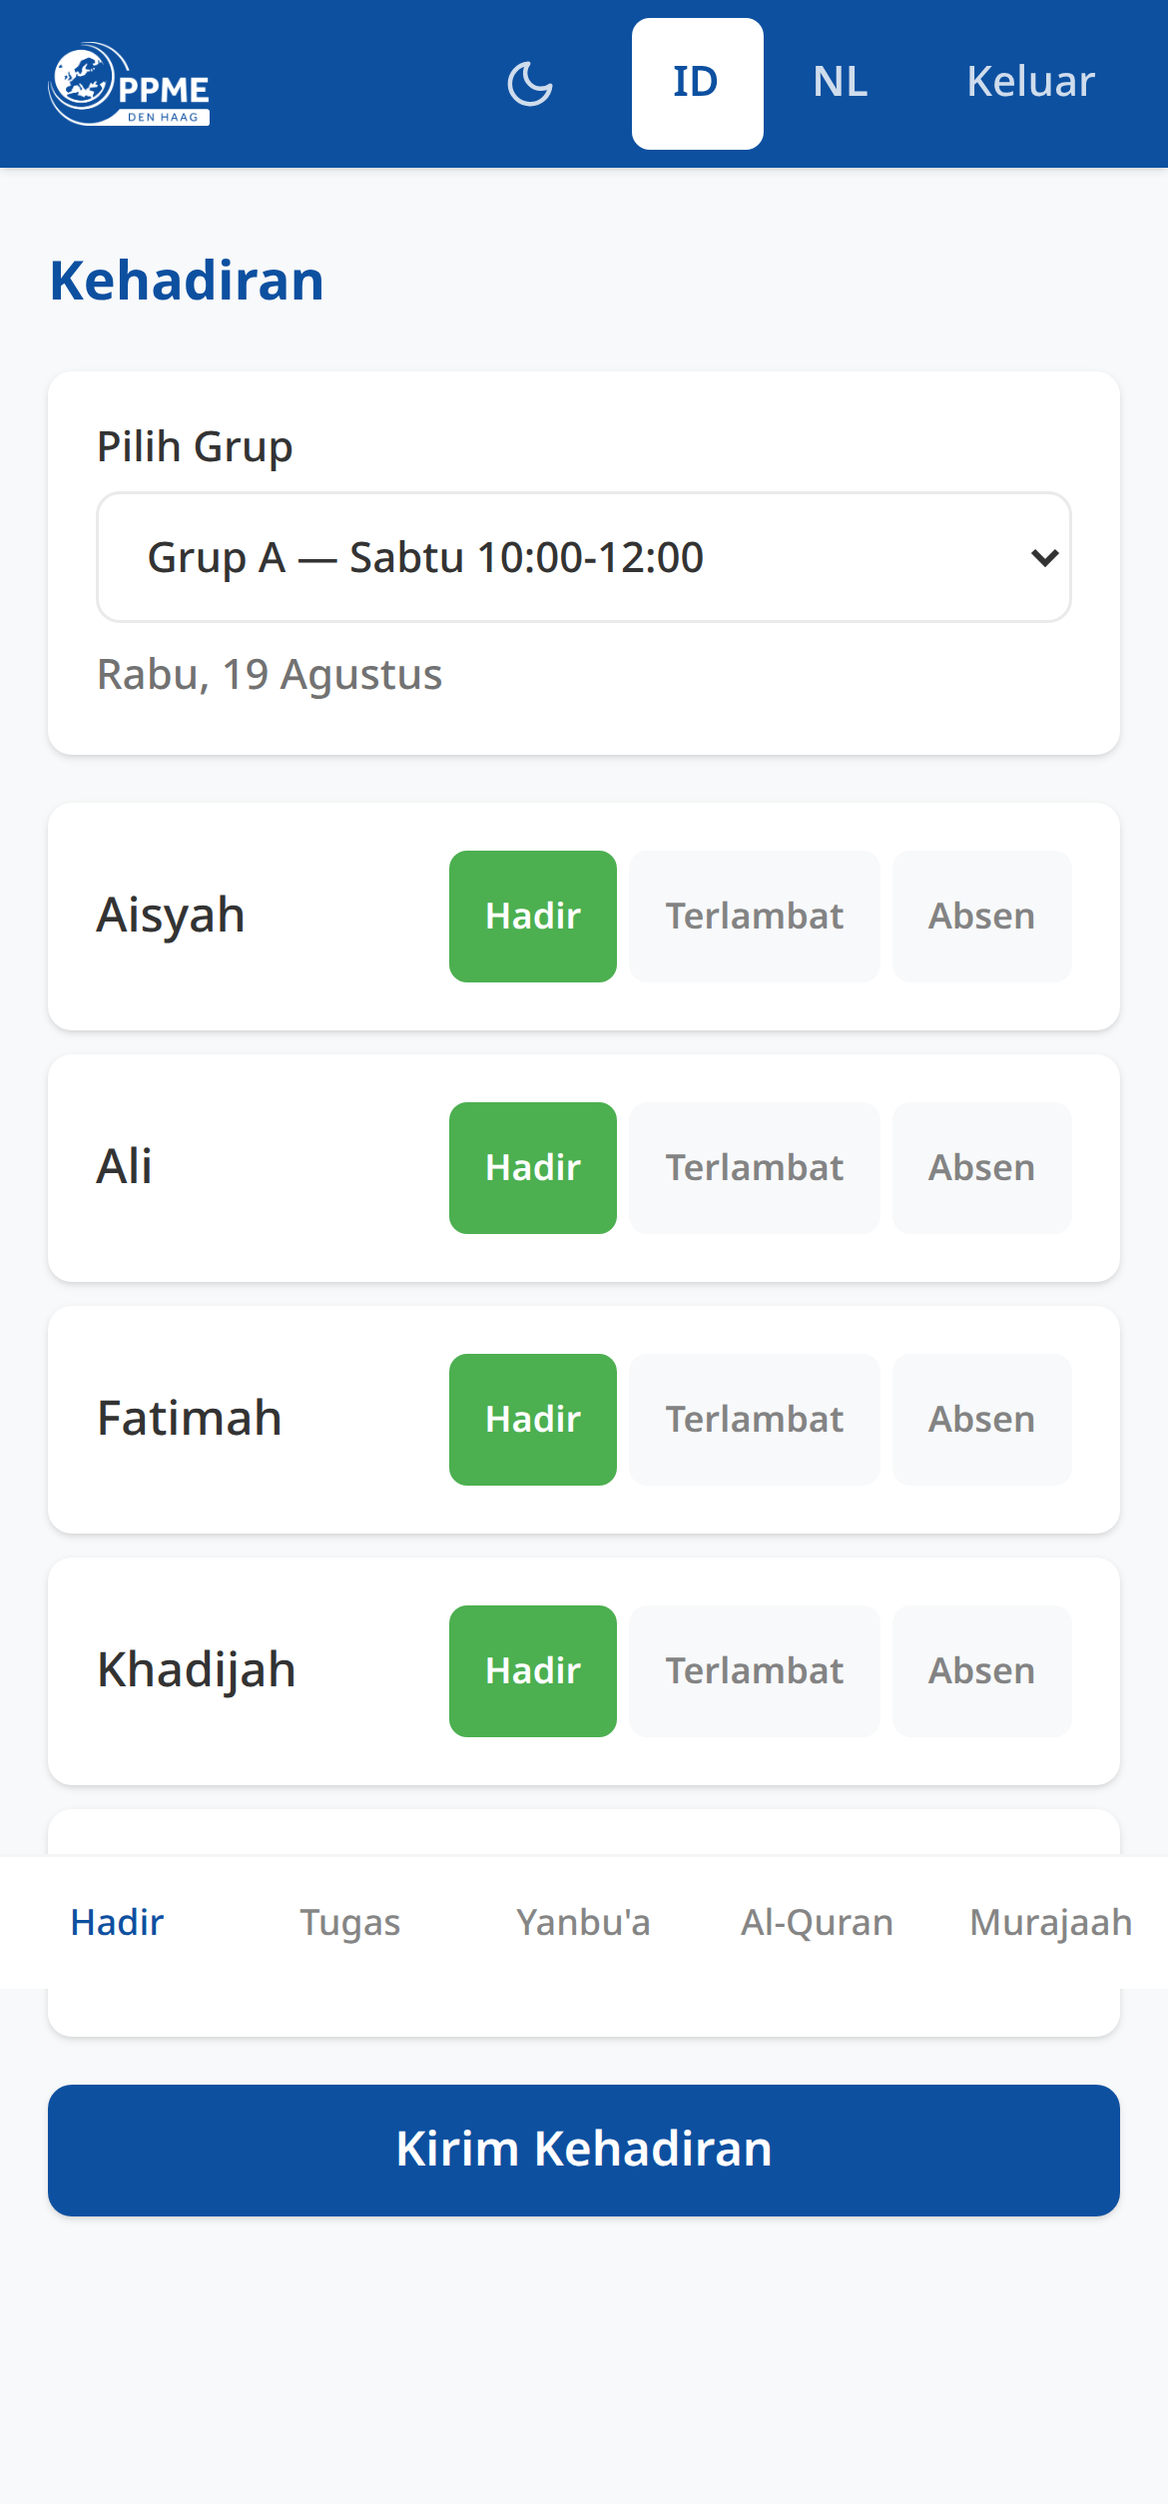
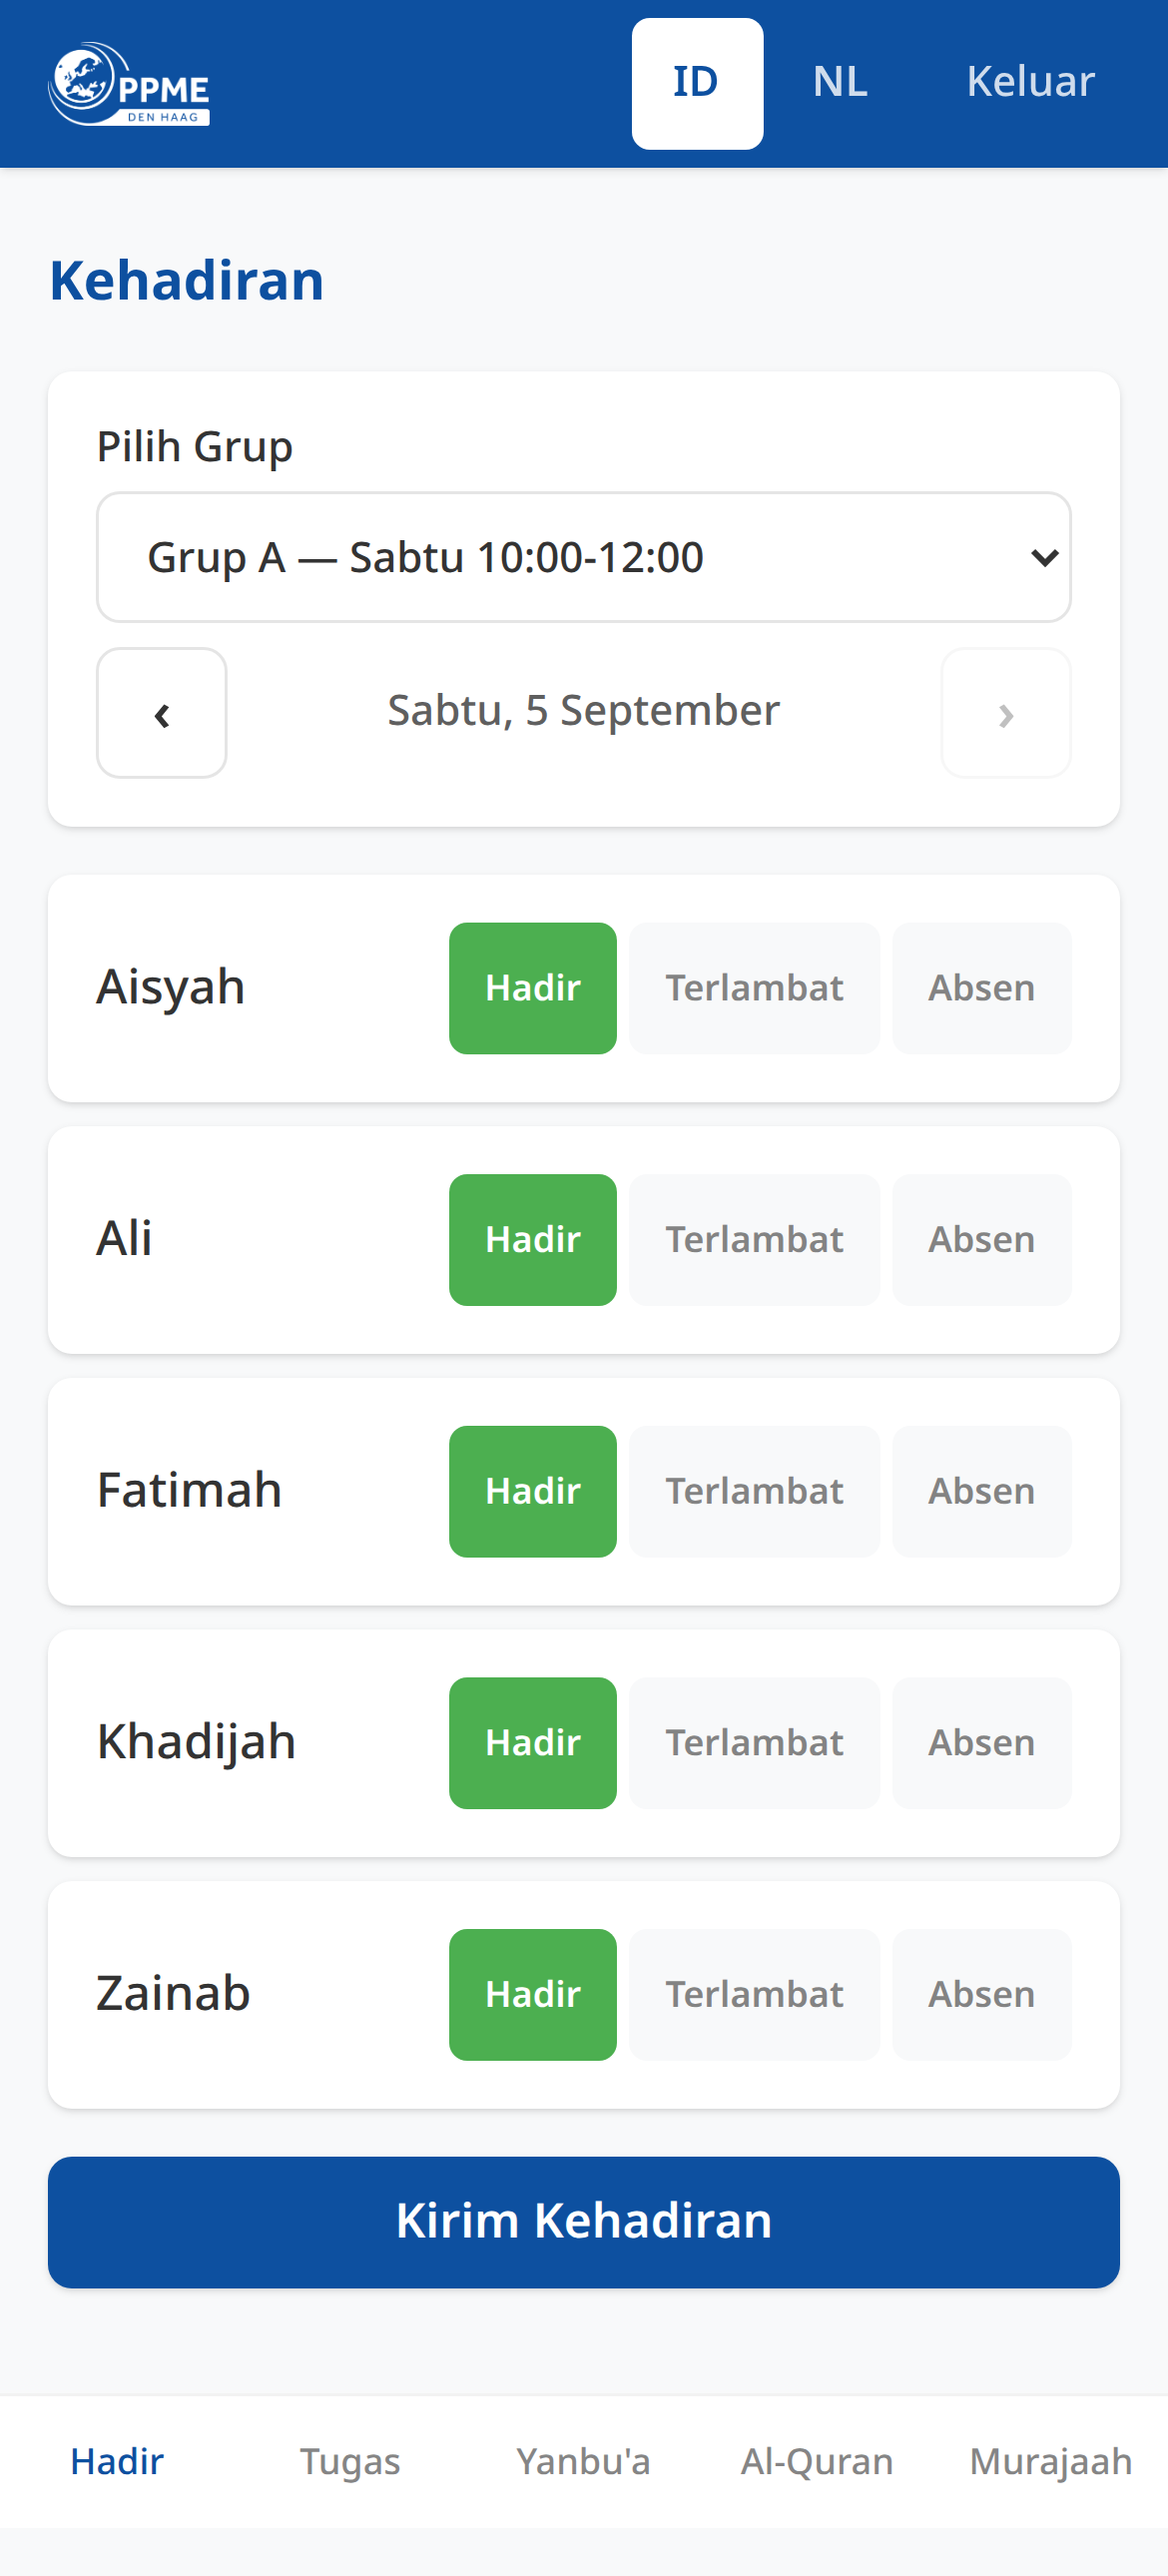
docs(manual): meeting days + schedule-driven attendance (ADR-037)
Follow-up to #4. Updates the bilingual user manual for the UI changes:

- §5.1 Attendance (tutor): the "date not adjustable — always today"
  row is replaced with the prev/next session stepper — how it steps
  across the group's meeting days, the academic-year back-bound, the
  "niet ingevuld / belum diisi" state, and that an existing session
  stays editable.
- §5.2 Attendance (family): new read-only "Lesdagen / Hari pertemuan"
  line under the rate.
- §12.2 Groups: the new-group form gains a "Lesdagen / Hari pertemuan"
  weekday picker (Saturday default, at least one required); the group
  card and list now show the days.
- 8 screenshots recaptured (attendance-tutor, attendance-family,
  admin-classes, admin-classes-new-form; nl + id) at the existing
  390px / 3x full-page size.

Not done: the two compiled PDFs (manual-nl.pdf, manual-id.pdf) — the
repo has no PDF/branding build script; flagged in the manual footer and
left for whoever holds that toolchain.

Claude-Session: https://claude.ai/code/session_01NKAZuQzLiaWqH3aw41txTW

diff --git a/docs/user-manual/manual-nl.md b/docs/user-manual/manual-nl.md
@@ -126,12 +126,15 @@ Hetzelfde als de ustadz-weergave, plus een sectie **"Beheer"** onderaan — de e
 
 <img src="./screenshots/nl/attendance-tutor.png" width="360" alt="Aanwezigheid — presentielijst ustadz">
 
-Het scherm om de aanwezigheid van vandaag per groep te registreren.
+Het scherm om de aanwezigheid per groep te registreren. Het opent op de
+huidige les van de groep — vandaag als de groep vandaag samenkomt, anders
+de meest recente lesdag daarvoor. Welke dagen een groep samenkomt, stelt
+de beheerder in bij de groep (zie **8. Groepsbeheer → Lesdagen**).
 
 | Element | Functie |
 |---|---|
-| **Kies groep** | Verschijnt alleen als de ustadz meer dan één groep begeleidt. Bij het wisselen wordt de leerlingenlijst en de sessie van vandaag opnieuw geladen. |
-| Datum | Vandaag, automatisch getoond (niet aanpasbaar — registratie is altijd voor de sessie van vandaag). |
+| **Kies groep** | Verschijnt alleen als de ustadz meer dan één groep begeleidt. Bij het wisselen worden de leerlingenlijst en de les opnieuw geladen. |
+| Datumbalk met **‹** / **›** | Toont de datum van de getoonde les (weekdag, dag en maand; het jaartal erbij als de les niet in het huidige kalenderjaar valt). Met de pijlen stapt u door de lesdagen van de groep: **‹** terug tot 1 augustus van het huidige schooljaar, **›** vooruit tot en met de huidige les (verder vooruit kan niet). Staat er **niet ingevuld** onder de datum, dan is voor die lesdag nog geen aanwezigheid vastgelegd — u kunt dat alsnog doen; de les wordt aangemaakt zodra u verstuurt. Een al vastgelegde les blijft altijd te corrigeren, ook een die niet op een lesdag valt. |
 | Leerlingregel + knoppen **Aanwezig / Te laat / Afwezig** | Tik op een van de knoppen om de status van die leerling in te stellen. Groen = de status die op dit moment op het scherm staat (nog niet naar de server verstuurd totdat u op **Aanwezigheid versturen** tikt). De standaardstatus voor elke leerling is "Aanwezig". |
 
 Als u op **Afwezig** tikt, verschijnt een extra veld voor de reden:
@@ -167,6 +170,7 @@ Dit scherm is **alleen om te bekijken** — ouders en leerlingen kunnen de aanwe
 | Titel | "Mijn aanwezigheid" (voor een leerling die de eigen gegevens bekijkt) of "Aanwezigheid {naam kind}". |
 | Velden **Van** / **Tot** | Datumbereik om de geschiedenis te filteren (standaard: de laatste 90 dagen tot vandaag). |
 | Groot percentage | Aanwezigheidspercentage binnen het gekozen datumbereik. |
+| **Lesdagen** | Alleen-lezen regel onder het percentage met de weekdag(en) waarop de groep van het kind samenkomt (bijv. "Lesdagen: za"). Verschijnt niet als het kind nog niet in een groep zit. |
 | **Aanwezigheidsgeschiedenis** | Lijst per datum met status **Aanwezig / Te laat / Niet aanwezig**, en de reden (indien opgegeven) bij afwezigheid. |
 
 ---
@@ -464,7 +468,7 @@ Alleen toegankelijk voor een account met de rol Beheerder, via de tegel **Beheer
 | Element | Functie |
 |---|---|
 | **+ Nieuwe groep** | Opent het formulier voor een nieuwe groep (zie afbeelding hieronder). |
-| Kaart per groep | Naam, rooster, en lijst van toegewezen ustadz. |
+| Kaart per groep | Naam, rooster, lesdagen (bijv. "wo, za"), en lijst van toegewezen ustadz. |
 | **Bewerken** | Opent het bewerkingsformulier voor die groep, al ingevuld met bestaande gegevens. |
 
 Groepsformulier (hetzelfde voor nieuw aanmaken of bewerken):
@@ -474,7 +478,8 @@ Groepsformulier (hetzelfde voor nieuw aanmaken of bewerken):
 | Veld | Functie |
 |---|---|
 | **Groepsnaam** | Verplicht. |
-| **Rooster** | Optioneel, vrije tekst (bijv. "Sabtu 10:00-12:00"). |
+| **Rooster** | Optioneel, vrije tekst voor de tijd (bijv. "Sabtu 10:00-12:00"). |
+| **Lesdagen** | Aanvinklijst maandag t/m zondag. Bij een nieuwe groep staat **zaterdag** al aangevinkt; meerdere dagen mag. Er moet minstens één dag gekozen zijn — anders is **Opslaan** uitgeschakeld met de melding *"Kies minstens één dag"*. Deze dagen bepalen op welke datums de aanwezigheidslijst een les kan aanmaken. |
 | **Toegewezen ustadz** | Aanvinklijst — er kan meer dan één ustadz worden gekozen, of geen enkele. |
 | **Opslaan** / **Annuleren** | Opslaan of annuleren. |
 
@@ -557,4 +562,4 @@ Om tweetalige communicatie binnen de TPA te vergemakkelijken, hier de belangrijk
 
 ---
 
-*Dit document is opgesteld op basis van schermafbeeldingen van de app-versie van augustus 2026, mobiele weergave. De indeling kan in latere app-versies licht afwijken.*
+*Dit document is opgesteld op basis van schermafbeeldingen van de app-versie van augustus 2026, mobiele weergave, met de schermen voor **5. Aanwezigheid** en **12.2 Groepen** opnieuw vastgelegd voor de lesdagen van een groep en de op het rooster gebaseerde aanwezigheidslijst (ADR-037, september 2026). De indeling kan in latere app-versies licht afwijken. De PDF-versie van deze handleiding is voor die wijziging nog niet opnieuw gegenereerd.*

diff --git a/docs/user-manual/manual-id.md b/docs/user-manual/manual-id.md
@@ -126,12 +126,15 @@ Sama seperti tampilan ustadz, ditambah bagian **"Kelola"** di bagian bawah — s
 
 <img src="./screenshots/id/attendance-tutor.png" width="360" alt="Kehadiran — daftar hadir ustadz">
 
-Layar untuk mencatat kehadiran hari ini per grup.
+Layar untuk mencatat kehadiran per grup. Layar terbuka pada sesi terkini
+grup — hari ini jika grup bertemu hari ini, jika tidak maka hari
+pertemuan terakhir sebelumnya. Hari pertemuan sebuah grup diatur oleh
+admin pada grup tersebut (lihat **12.2 Grup → Hari pertemuan**).
 
 | Elemen | Fungsi |
 |---|---|
-| **Pilih Grup** | Muncul hanya jika ustadz mengampu lebih dari satu grup. Memilih grup memuat ulang daftar santri dan sesi hari ini. |
-| Tanggal | Hari ini, ditampilkan otomatis (tidak bisa diubah — pencatatan selalu untuk sesi hari ini). |
+| **Pilih Grup** | Muncul hanya jika ustadz mengampu lebih dari satu grup. Memilih grup memuat ulang daftar santri dan sesinya. |
+| Baris tanggal dengan **‹** / **›** | Menampilkan tanggal sesi yang sedang dibuka (hari, tanggal, dan bulan; tahun ikut ditampilkan bila sesi bukan pada tahun kalender berjalan). Panah memindahkan sesi mengikuti hari pertemuan grup: **‹** mundur sampai 1 Agustus tahun ajaran berjalan, **›** maju sampai sesi terkini (tidak bisa lebih maju dari itu). Jika di bawah tanggal tertulis **belum diisi**, kehadiran untuk hari pertemuan itu belum dicatat — Anda masih bisa mencatatnya; sesinya dibuat saat Anda mengirim. Sesi yang sudah dicatat selalu bisa dikoreksi, termasuk yang tanggalnya bukan hari pertemuan. |
 | Baris santri + tombol **Hadir / Terlambat / Absen** | Tekan salah satu untuk menetapkan status santri tersebut. Warna hijau = status aktif yang tersimpan sementara di layar (belum terkirim ke server sampai ditekan **Kirim Kehadiran**). Status awal semua santri adalah "Hadir". |
 
 Menekan **Absen** membuka kolom alasan tambahan:
@@ -167,6 +170,7 @@ Layar ini **hanya untuk melihat** — orang tua dan santri tidak bisa mengubah d
 | Judul | "Kehadiranku" (untuk santri yang melihat datanya sendiri) atau "Kehadiran {nama anak}". |
 | Kolom **Dari** / **Sampai** | Rentang tanggal untuk memfilter riwayat (default: 90 hari terakhir sampai hari ini). |
 | Angka persentase besar | Tingkat kehadiran pada rentang tanggal yang dipilih. |
+| **Hari pertemuan** | Baris hanya-baca di bawah persentase berisi hari dalam seminggu saat grup anak bertemu (mis. "Hari pertemuan: Sab"). Tidak muncul jika anak belum masuk grup. |
 | **Riwayat Kehadiran** | Daftar per tanggal dengan status **Hadir / Terlambat / Tidak Hadir**, dan alasan (jika ada) untuk yang tidak hadir. |
 
 ---
@@ -464,7 +468,7 @@ Hanya bisa diakses oleh akun dengan peran Admin, lewat ubin **Kelola** di Berand
 | Elemen | Fungsi |
 |---|---|
 | **+ Grup Baru** | Membuka formulir grup baru (lihat gambar di bawah). |
-| Kartu tiap grup | Nama, jadwal, dan daftar ustadz pengampu. |
+| Kartu tiap grup | Nama, jadwal, hari pertemuan (mis. "Rab, Sab"), dan daftar ustadz pengampu. |
 | **Ubah** | Membuka formulir edit untuk grup tersebut, terisi data yang sudah ada. |
 
 Formulir Grup (sama untuk buat baru maupun ubah):
@@ -474,7 +478,8 @@ Formulir Grup (sama untuk buat baru maupun ubah):
 | Kolom | Fungsi |
 |---|---|
 | **Nama Grup** | Wajib diisi. |
-| **Jadwal** | Opsional, teks bebas (mis. "Sabtu 10:00-12:00"). |
+| **Jadwal** | Opsional, teks bebas untuk waktu (mis. "Sabtu 10:00-12:00"). |
+| **Hari pertemuan** | Daftar centang Senin sampai Ahad. Pada grup baru, **Sabtu** sudah tercentang; boleh lebih dari satu hari. Minimal satu hari harus dipilih — jika tidak, tombol **Simpan** nonaktif dengan pesan *"Pilih minimal satu hari"*. Hari-hari inilah yang menentukan pada tanggal berapa daftar hadir dapat membuat sesi. |
 | **Ustadz Pengampu** | Daftar centang — bisa memilih lebih dari satu ustadz, atau tidak memilih sama sekali. |
 | **Simpan** / **Batal** | Menyimpan atau membatalkan. |
 
@@ -557,4 +562,4 @@ Untuk memudahkan komunikasi dua bahasa di lingkungan TPA, berikut padanan istila
 
 ---
 
-*Dokumen ini dibuat berdasarkan tangkapan layar aplikasi versi Agustus 2026, tampilan ponsel (mobile). Tata letak dapat sedikit berbeda pada versi aplikasi yang lebih baru.*
+*Dokumen ini dibuat berdasarkan tangkapan layar aplikasi versi Agustus 2026, tampilan ponsel (mobile), dengan layar untuk **5. Kehadiran** dan **12.2 Grup** diambil ulang untuk hari pertemuan grup dan daftar hadir yang mengikuti jadwal (ADR-037, September 2026). Tata letak dapat sedikit berbeda pada versi aplikasi yang lebih baru. Versi PDF panduan ini belum dibuat ulang untuk perubahan tersebut.*
